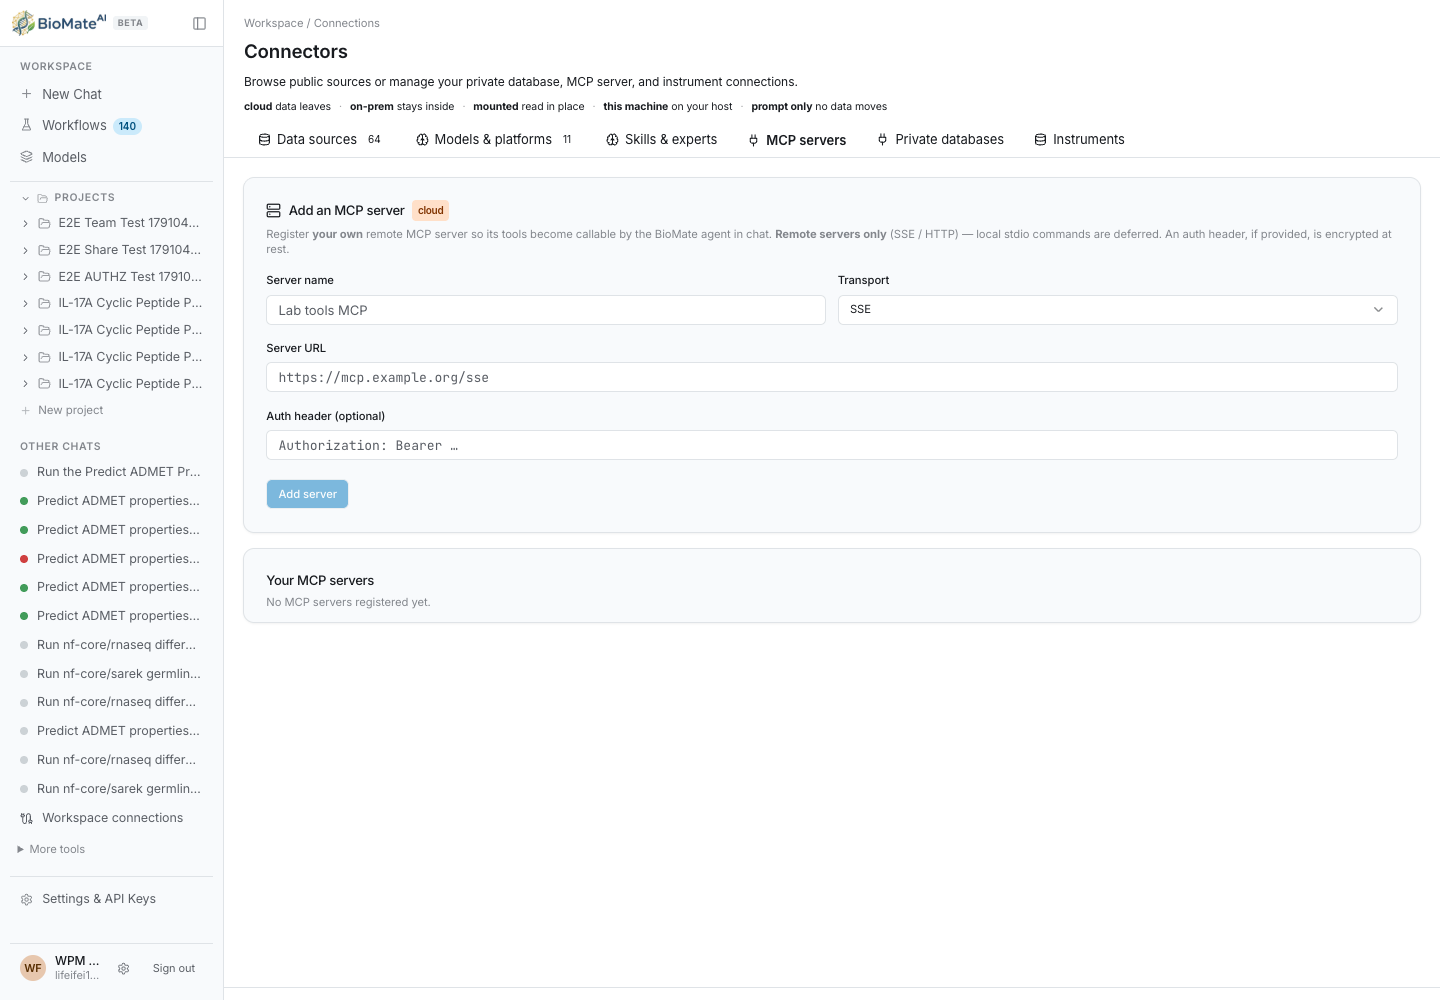
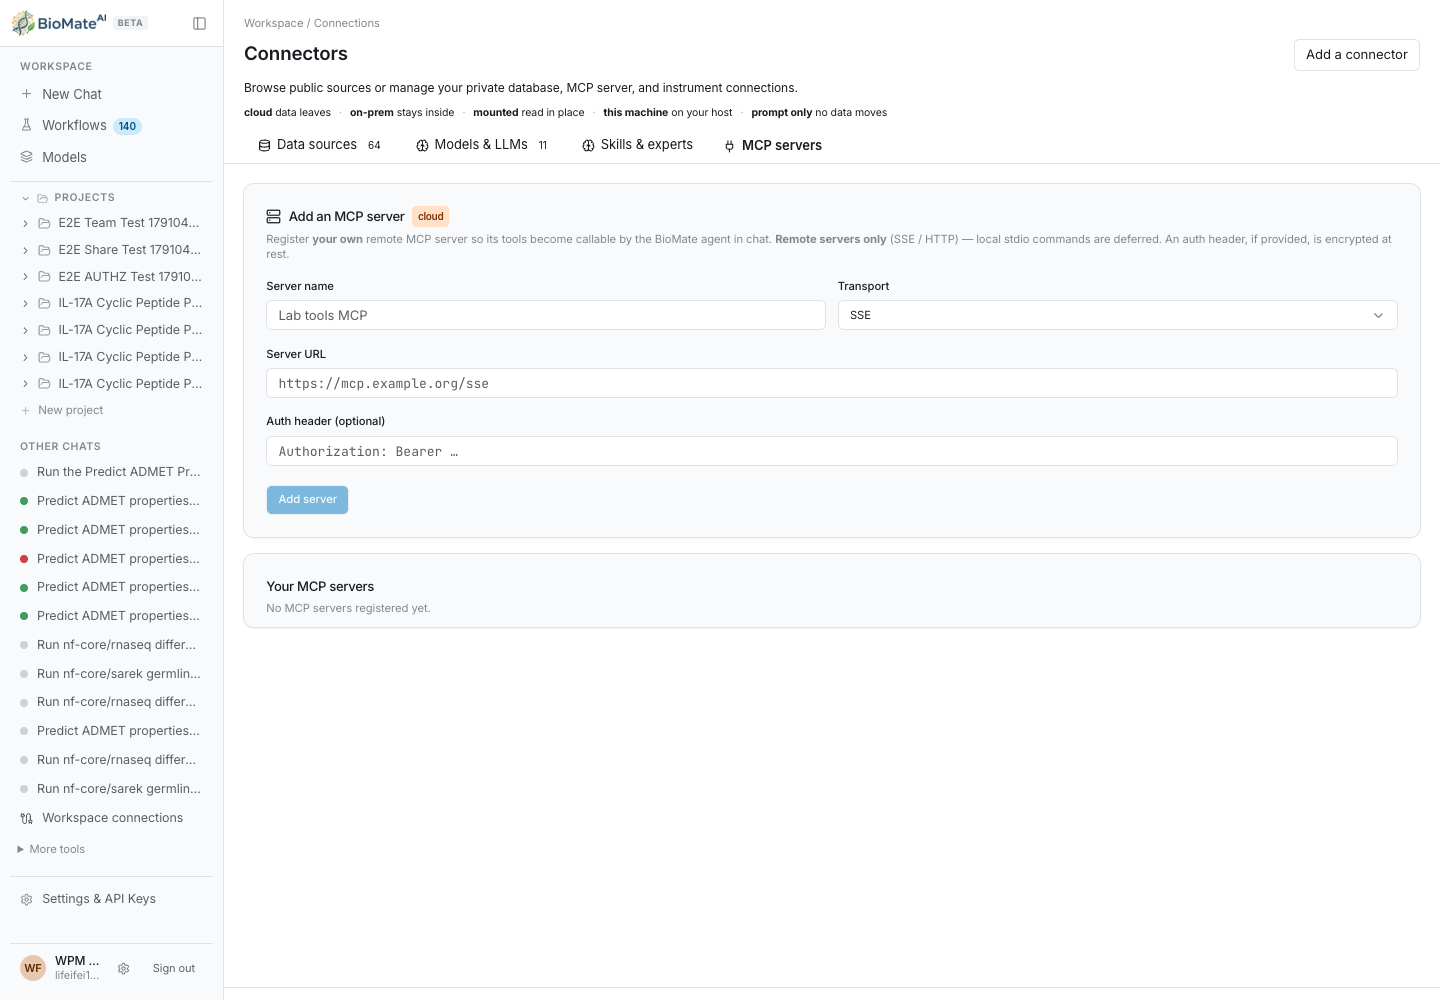
Align connector navigation and retain the workspace shell across tools

diff --git a/frontend/client/src/components/connectors-dialog.tsx b/frontend/client/src/components/connectors-dialog.tsx
@@ -209,14 +209,16 @@ function DeclaredFact({ label, value }: { label: string; value?: string }) {
 }
 
 function ConnectorTable({
-  rows, selected, onToggle, scopes, onScopeChange,
+  rows, selected, onToggle, scopes, onScopeChange, compact = false,
 }: {
+  compact?: boolean;
   rows: Connector[];
   selected?: string[];
   onToggle?: (name: string) => void;
   scopes: Record<string, Scope>;
   onScopeChange: (name: string, scope: Scope) => void;
 }) {
+  if (compact) return <div className="p-5"><div className="rounded-lg border border-border bg-background px-4" data-testid="connector-table">{rows.map(row => <article key={row.name} data-testid={`connector-row-${row.name}`} className="grid grid-cols-[minmax(0,1fr)_auto] sm:grid-cols-[minmax(0,1fr)_auto_auto] gap-3 items-center py-3 border-b border-border last:border-0"><div className="min-w-0"><h3 className="text-[13px] font-semibold">{row.name}</h3><p className="text-xs text-muted-foreground mt-1">{row.description}</p>{row.needs && <p className="text-xs text-muted-foreground mt-1">Requires {row.needs}</p>}</div><ResidencyBadge residency={row.residency} /><span className="text-[11px] text-muted-foreground">{row.category}</span></article>)}</div></div>;
   const checkable = !!onToggle;
   return (
     <table style={{ width: '100%', borderCollapse: 'collapse', fontSize: 13 }} data-testid="connector-table">
@@ -287,8 +289,9 @@ function ConnectorTable({
 }
 
 function DatabasesTab({
-  selected, onToggle, scopes, onScopeChange,
+  selected, onToggle, scopes, onScopeChange, compact = false,
 }: {
+  compact?: boolean;
   selected: string[];
   onToggle: (name: string) => void;
   scopes: Record<string, Scope>;
@@ -343,7 +346,7 @@ function DatabasesTab({
           );
         })}
       </div>
-      <ConnectorTable rows={rows} selected={selected} onToggle={onToggle} scopes={scopes} onScopeChange={onScopeChange} />
+      <ConnectorTable compact={compact} rows={rows} selected={selected} onToggle={onToggle} scopes={scopes} onScopeChange={onScopeChange} />
     </div>
   );
 }
@@ -395,7 +398,7 @@ function YourConnectionsTab() {
 
 const TABS: { id: TabId; label: string; icon: React.ReactNode; count?: number; tip: string }[] = [
   { id: 'databases', label: 'Data sources',   icon: <Database style={{ width: 13, height: 13 }} />, count: DB.length, tip: 'Public protein, genomics, omics, chemical, pathway, disease, literature, and imaging sources BioMate can query from chat' },
-  { id: 'ai',        label: 'Models & platforms',      icon: <Brain    style={{ width: 13, height: 13 }} />, count: AI.length, tip: 'LLM providers and messaging / IDE surfaces BioMate exposes — reference only, not configured here' },
+  { id: 'ai',        label: 'Models & LLMs',      icon: <Brain    style={{ width: 13, height: 13 }} />, count: AI.length, tip: 'LLM providers and messaging / IDE surfaces BioMate exposes — reference only, not configured here' },
   { id: 'skills', label: 'Skills & experts', icon: <Brain style={{ width: 13, height: 13 }} />, tip: 'Available expert packs; select packs for a request in the chat composer' },
   { id: 'mcp', label: 'MCP servers', icon: <Plug style={{ width: 13, height: 13 }} />, tip: 'Manage your MCP server connections' },
   { id: 'yours',     label: 'Private databases',    icon: <Plug     style={{ width: 13, height: 13 }} />,                   tip: 'Connect your OWN private database and MCP server — the one writable surface here, backed by real endpoints' },
@@ -414,6 +417,8 @@ interface ConnectorsDialogProps {
 }
 
 export function ConnectorsDialog({ open, onOpenChange, embedded = false }: ConnectorsDialogProps) {
+  const [sourceView, setSourceView] = useState<'public' | 'private' | 'instruments'>('public');
+  const [adding, setAdding] = useState(false);
   const [settingsOpen, setSettingsOpen] = useState(false);
   const [packs, setPacks] = useState<SkillPack[] | null>(null);
   const [packsError, setPacksError] = useState(false);
@@ -462,7 +467,7 @@ export function ConnectorsDialog({ open, onOpenChange, embedded = false }: Conne
         data-testid="connectors-dialog"
       >
         <div style={{ padding: '16px 20px 0', flexShrink: 0 }}>
-          {embedded ? <><p className="text-xs text-muted-foreground mb-2">Workspace / Connections</p><h1 className="text-xl font-semibold">Connectors</h1></> : <DialogTitle>Connectors</DialogTitle>}
+          {embedded ? <><p className="text-xs text-muted-foreground mb-2">Workspace / Connections</p><div className="flex items-center justify-between gap-4"><h1 className="text-xl font-semibold">Connectors</h1><button className="text-sm border border-border rounded-md px-3 py-1.5" onClick={() => setAdding(v => !v)}>{adding ? "Close" : "Add a connector"}</button></div></> : <DialogTitle>Connectors</DialogTitle>}
           <p style={{ fontSize: 12, color: 'var(--muted-foreground)', margin: '8px 0' }}>Browse public sources or manage your private database, MCP server, and instrument connections.</p>
           {/* Residency legend (§0.9.3): the five values, so a badge is readable at a glance */}
           <div data-testid="residency-legend" style={{ display: 'flex', flexWrap: 'wrap', gap: '4px 8px', marginTop: 8, fontSize: 10.5, color: 'var(--muted-foreground)' }}>
@@ -479,7 +484,7 @@ export function ConnectorsDialog({ open, onOpenChange, embedded = false }: Conne
         </div>
 
         <div style={{ display: 'flex', borderBottom: '1px solid var(--border)', padding: '10px 20px 0', gap: 2, overflowX: 'auto', flexShrink: 0 }}>
-          {TABS.map(t => (
+          {TABS.filter(t => t.id !== 'yours' && t.id !== 'instruments').map(t => (
             <button
               key={t.id}
               data-testid={`connector-tab-${t.id}`}
@@ -514,9 +519,10 @@ export function ConnectorsDialog({ open, onOpenChange, embedded = false }: Conne
           ))}
         </div>
 
+        {adding && <div className="p-5 border-b border-border flex flex-wrap gap-3"><button className="text-sm border border-border rounded-md px-3 py-2" onClick={() => { setActiveTab('databases'); setSourceView('private'); setAdding(false); }}>Private database</button><button className="text-sm border border-border rounded-md px-3 py-2" onClick={() => { setActiveTab('mcp'); setAdding(false); }}>MCP server</button><button className="text-sm border border-border rounded-md px-3 py-2" onClick={() => { setActiveTab('databases'); setSourceView('instruments'); setAdding(false); }}>Instrument</button><button className="text-sm border border-border rounded-md px-3 py-2" onClick={() => { setSettingsOpen(true); setAdding(false); }}>Model provider</button></div>}
         <div style={{ flex: 1, overflowY: 'auto', overflowX: 'auto', display: 'flex', flexDirection: 'column' }}>
-          {activeTab === 'databases' && <DatabasesTab selected={selectedDbs} onToggle={toggleDb} scopes={scopes} onScopeChange={setScope} />}
-          {activeTab === 'ai' && <><div className="p-4"><button className="text-sm underline" onClick={() => setSettingsOpen(true)}>Configure model providers and API keys</button></div><ConnectorTable rows={AI} scopes={scopes} onScopeChange={setScope} /></>}
+          {activeTab === 'databases' && <><div className="flex flex-wrap gap-2 px-5 py-3 border-b border-border">{(['public', 'private', 'instruments'] as const).map(view => <button key={view} className={sourceView === view ? 'text-xs rounded-md px-3 py-1.5 bg-muted font-semibold' : 'text-xs rounded-md px-3 py-1.5 text-muted-foreground'} onClick={() => setSourceView(view)}>{view === 'public' ? 'Public databases' : view === 'private' ? 'Private databases' : 'Instruments'}</button>)}</div>{sourceView === 'public' ? <DatabasesTab compact={embedded} selected={selectedDbs} onToggle={toggleDb} scopes={scopes} onScopeChange={setScope} /> : sourceView === 'private' ? <div className="p-5"><PrivateDbConnectionForm /></div> : <InstrumentsSection />}</>}
+          {activeTab === 'ai' && <><div className="p-4"><button className="text-sm underline" onClick={() => setSettingsOpen(true)}>Configure model providers and API keys</button></div><ConnectorTable compact={embedded} rows={AI} scopes={scopes} onScopeChange={setScope} /></>}
           {activeTab === 'yours' && <div className="p-5"><PrivateDbConnectionForm /></div>}
           {activeTab === 'mcp' && <div className="p-5"><McpServerForm /></div>}
           {activeTab === 'skills' && <div className="p-5"><p className="text-sm text-muted-foreground mb-4">Select expert packs for each request using Skills &amp; experts in the chat composer.</p>{packsError ? <p role="alert">Could not load expert packs. Please reload to try again.</p> : packs === null ? <p>Loading expert packs…</p> : packs.length === 0 ? <p>No expert packs available yet.</p> : packs.map(pack => <article key={pack.id} className="py-4 border-b border-border"><h3 className="text-sm font-medium">{pack.label}</h3>{pack.description && <p className="text-sm text-muted-foreground mt-1">{pack.description}</p>}</article>)}</div>}
@@ -524,7 +530,7 @@ export function ConnectorsDialog({ open, onOpenChange, embedded = false }: Conne
         </div>
 
         <div style={{ flexShrink: 0, padding: '6px 20px', borderTop: '1px solid var(--border)', fontSize: 11, color: 'var(--muted-foreground)' }}>
-          {activeTab === 'databases' && dbFooter}
+          {activeTab === 'databases' && sourceView === 'public' && (embedded ? 'Public sources are queried automatically when relevant to your request.' : dbFooter)}
           {activeTab === 'ai'        && `${AI.length} AI models and platform surfaces BioMate exposes — reference only. This panel does not configure them; set up messaging bots / IDE (MCP) / GPT-action access from their own tools or the BioMate MCP install flow.`}
           {activeTab === 'yours'     && 'Your own private database and MCP server — the one writable surface here. Connections you add are used by BioMate chat; DB queries are read-only and credentials are encrypted at rest.'}
         </div>

diff --git a/frontend/client/src/App.tsx b/frontend/client/src/App.tsx
@@ -637,19 +637,41 @@ function Router({
           components/design-generate (DesignGenerate). Node proxy routes for
           /api/models·/api/inference·/api/generate live in server/routes.ts. */}
       <Route path="/models">
-        <AuthenticatedPageLayout>
+        <PlatformLayout
+          sidebarCollapsed={sidebarCollapsed}
+          setSidebarCollapsed={setSidebarCollapsed}
+          onNewChat={onNewChat}
+          onChatSelect={onChatSelect}
+          onCategorySelect={onCategorySelect}
+          onToolSelect={onToolSelect}
+          onProjectSelect={onProjectSelect}
+          onNewProject={onNewProject}
+          activeChatId={currentChatSession?.id}
+          chatSessions={chatSessions}
+        >
           <div className="max-w-5xl mx-auto p-4">
             <ModelsPanel />
           </div>
-        </AuthenticatedPageLayout>
+        </PlatformLayout>
       </Route>
 
       <Route path="/design">
-        <AuthenticatedPageLayout>
+        <PlatformLayout
+          sidebarCollapsed={sidebarCollapsed}
+          setSidebarCollapsed={setSidebarCollapsed}
+          onNewChat={onNewChat}
+          onChatSelect={onChatSelect}
+          onCategorySelect={onCategorySelect}
+          onToolSelect={onToolSelect}
+          onProjectSelect={onProjectSelect}
+          onNewProject={onNewProject}
+          activeChatId={currentChatSession?.id}
+          chatSessions={chatSessions}
+        >
           <div className="max-w-5xl mx-auto p-4">
             <DesignGenerate />
           </div>
-        </AuthenticatedPageLayout>
+        </PlatformLayout>
       </Route>
 
       {/* Tier-1 data surface — the data hub. Datasets as first-class objects
@@ -673,9 +695,20 @@ function Router({
       </Route>
 
       <Route path="/files">
-        <AuthenticatedPageLayout>
+        <PlatformLayout
+          sidebarCollapsed={sidebarCollapsed}
+          setSidebarCollapsed={setSidebarCollapsed}
+          onNewChat={onNewChat}
+          onChatSelect={onChatSelect}
+          onCategorySelect={onCategorySelect}
+          onToolSelect={onToolSelect}
+          onProjectSelect={onProjectSelect}
+          onNewProject={onNewProject}
+          activeChatId={currentChatSession?.id}
+          chatSessions={chatSessions}
+        >
           <DataHubPage />
-        </AuthenticatedPageLayout>
+        </PlatformLayout>
       </Route>
 
 {/* Deep link from chat connectors — loads a generated workflow by id and

diff --git a/frontend/client/src/components/chat-interface.tsx b/frontend/client/src/components/chat-interface.tsx
@@ -1,3 +1,4 @@
+import { useActiveProjectIdSafe } from "@/contexts/active-project-context"
 import { useState, useEffect, useRef, useCallback, useMemo } from "react"
 import { uploadFile as uploadFileShared } from "@/lib/upload"
 import { tOr } from "@/lib/i18n"
@@ -493,11 +494,13 @@ export function ChatInterface({
   // actually has — never a fabricated one. Refreshed on the shared
   // 'biomate:projects-updated' event so a newly-created project can be
   // proposed without a reload.
+  const contextProjectId = useActiveProjectIdSafe();
   const [composerProjects, setComposerProjects] = useState<ComposerProject[]>([])
   const [activeProjectId, setActiveProjectId] = useState<string | null>(() => {
     try { return typeof window !== 'undefined' ? localStorage.getItem('biomate-active-project-id') : null }
     catch { return null }
   })
+  useEffect(() => { setActiveProjectId(contextProjectId) }, [contextProjectId])
   useEffect(() => {
     let cancelled = false
     const loadProjects = () => {

diff --git a/frontend/client/src/pages/project-detail.test.tsx b/frontend/client/src/pages/project-detail.test.tsx
@@ -120,7 +120,7 @@ describe("Project instructions route", () => {
   it("presents the existing persisted instruction editor in the main pane", async () => {
     installFetch({ role: "owner", members: [OWNER_MEMBER] })
     render(<ProjectDetailPage projectId={PROJECT.id} initialTab="instructions" onBack={() => {}} />)
-    expect(await screen.findByRole("heading", { name: "Instructions", exact: true })).toBeInTheDocument()
+    expect(await screen.findByRole("heading", { name: /^Instructions$/ })).toBeInTheDocument()
     expect(screen.getByTestId("project-instructions-panel")).not.toHaveClass("w-72")
     expect(screen.getByTestId("button-edit-instructions")).toBeInTheDocument()
   })

diff --git a/frontend/client/src/components/connectors-dialog.test.tsx b/frontend/client/src/components/connectors-dialog.test.tsx
@@ -175,7 +175,7 @@ describe("Workspace Connections panel", () => {
     render(<ConnectorsDialog embedded open onOpenChange={() => {}} />);
     expect(screen.queryByRole("dialog")).not.toBeInTheDocument();
     expect(screen.getByRole("heading", { name: "Connectors" })).toBeInTheDocument();
-    for (const tab of ["databases", "ai", "skills", "mcp", "yours", "instruments"]) {
+    for (const tab of ["databases", "ai", "skills", "mcp"]) {
       expect(screen.getByTestId(`connector-tab-${tab}`)).toBeInTheDocument();
     }
   });

diff --git a/docs/qa/20261009-dev-design-parity/IMPLEMENTATION.md b/docs/qa/20261009-dev-design-parity/IMPLEMENTATION.md
@@ -6,6 +6,6 @@ Recovered DatasetObject Analyze and producing/consuming run navigation, and Inst
 
 The project tree exposes Instructions, Chats, Files, Runs and individual chats; Files opens the existing DatasetObject hub. Composer and workflow panel now use the reference spacing, bounded width, single panel header, compact progress, and expand/close actions. Project instruction records are normalized into composer defaults.
 
-Validation: TypeScript; 140 composer/workflow/dashboard tests; 4 data-hub tests; 21 connector/project tests. Headless Chrome against dev APIs verified Instructions editor open/cancel, main-pane width 1216px at viewport 1440px, all six Connections tabs, workflow expand/collapse and viewports 1100/1000/900/760px without browser errors. No workflow was submitted by the browser audit.
+Validation: TypeScript; 140 composer/workflow/dashboard tests; 4 data-hub tests; 23 connector/project/instruction-submit tests. Headless Chrome against dev APIs verified Instructions editor open/cancel, main-pane width 1216px at viewport 1440px, all four primary Connections tabs plus private database and instrument managers, workflow expand/collapse and viewports 1100/1000/900/760px without browser errors. No workflow was submitted by the browser audit.
 
-These repairs reconnect implemented features; they do not assert full pixel parity or fabricate the reference prototype's output-template functionality. The Connections directory retains declared metadata and the existing scope-preview controls.
+These repairs reconnect implemented features; they do not assert full pixel parity or fabricate the reference prototype's output-template functionality. The workspace Connections view uses compact connector rows with residency, four primary design tabs, and an Add connector action wired to the existing managers. Files, Models, and Design use PlatformLayout. Scope-preview controls remain only in the legacy modal; the workspace does not present them as functional connection settings.
